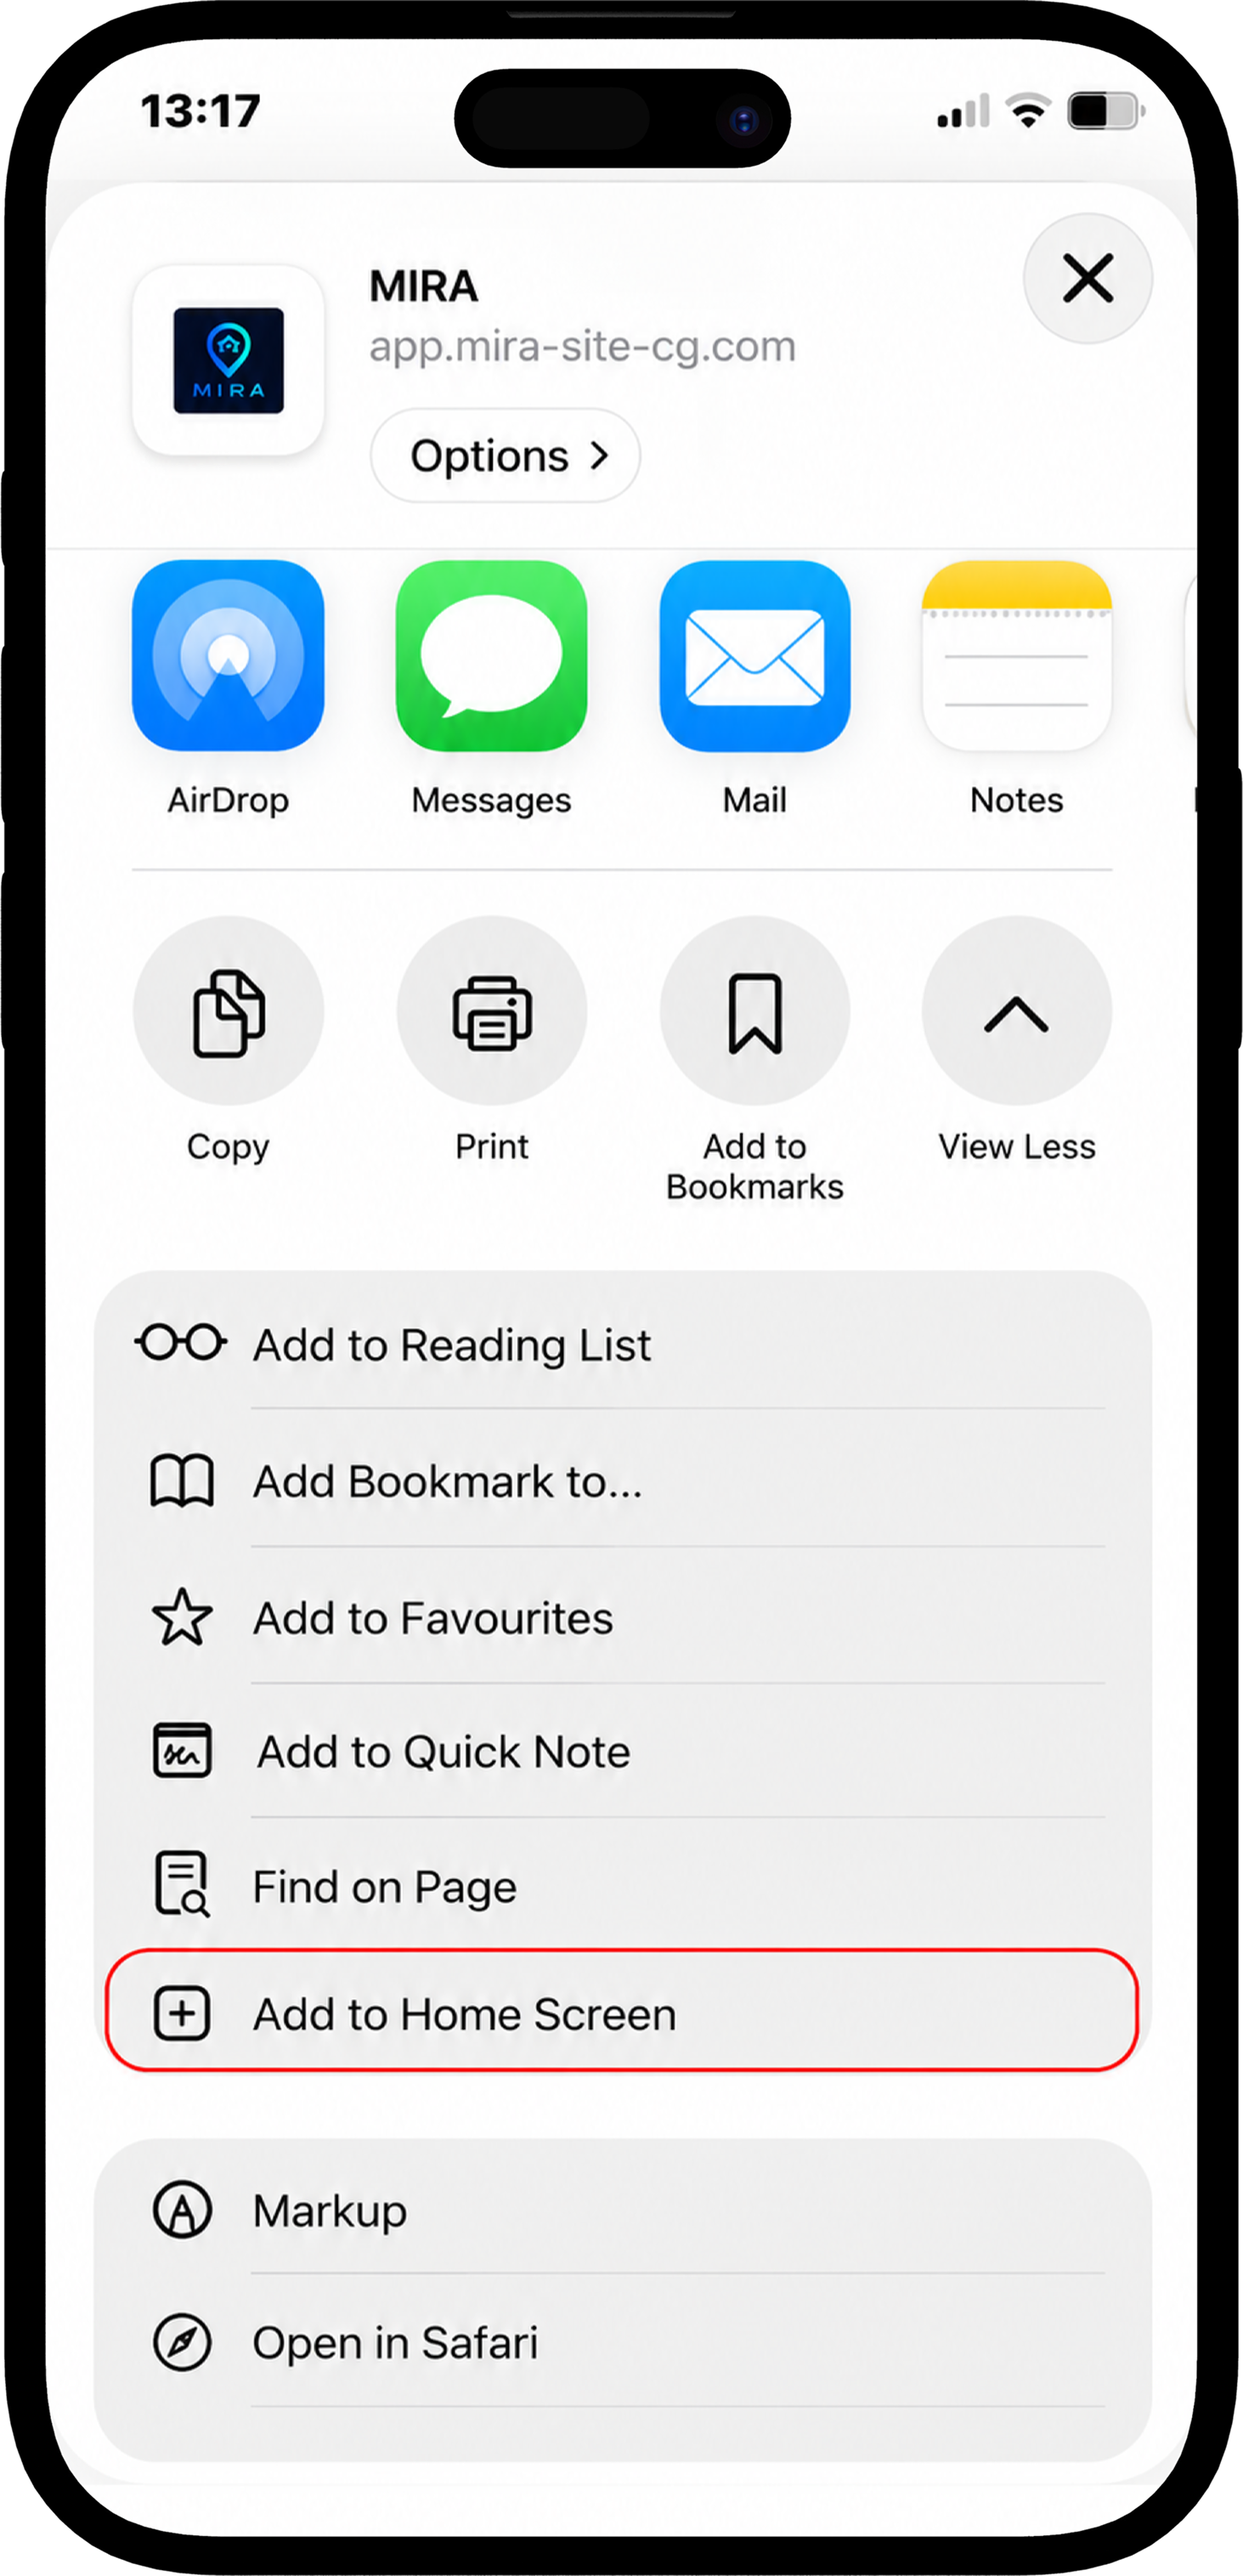
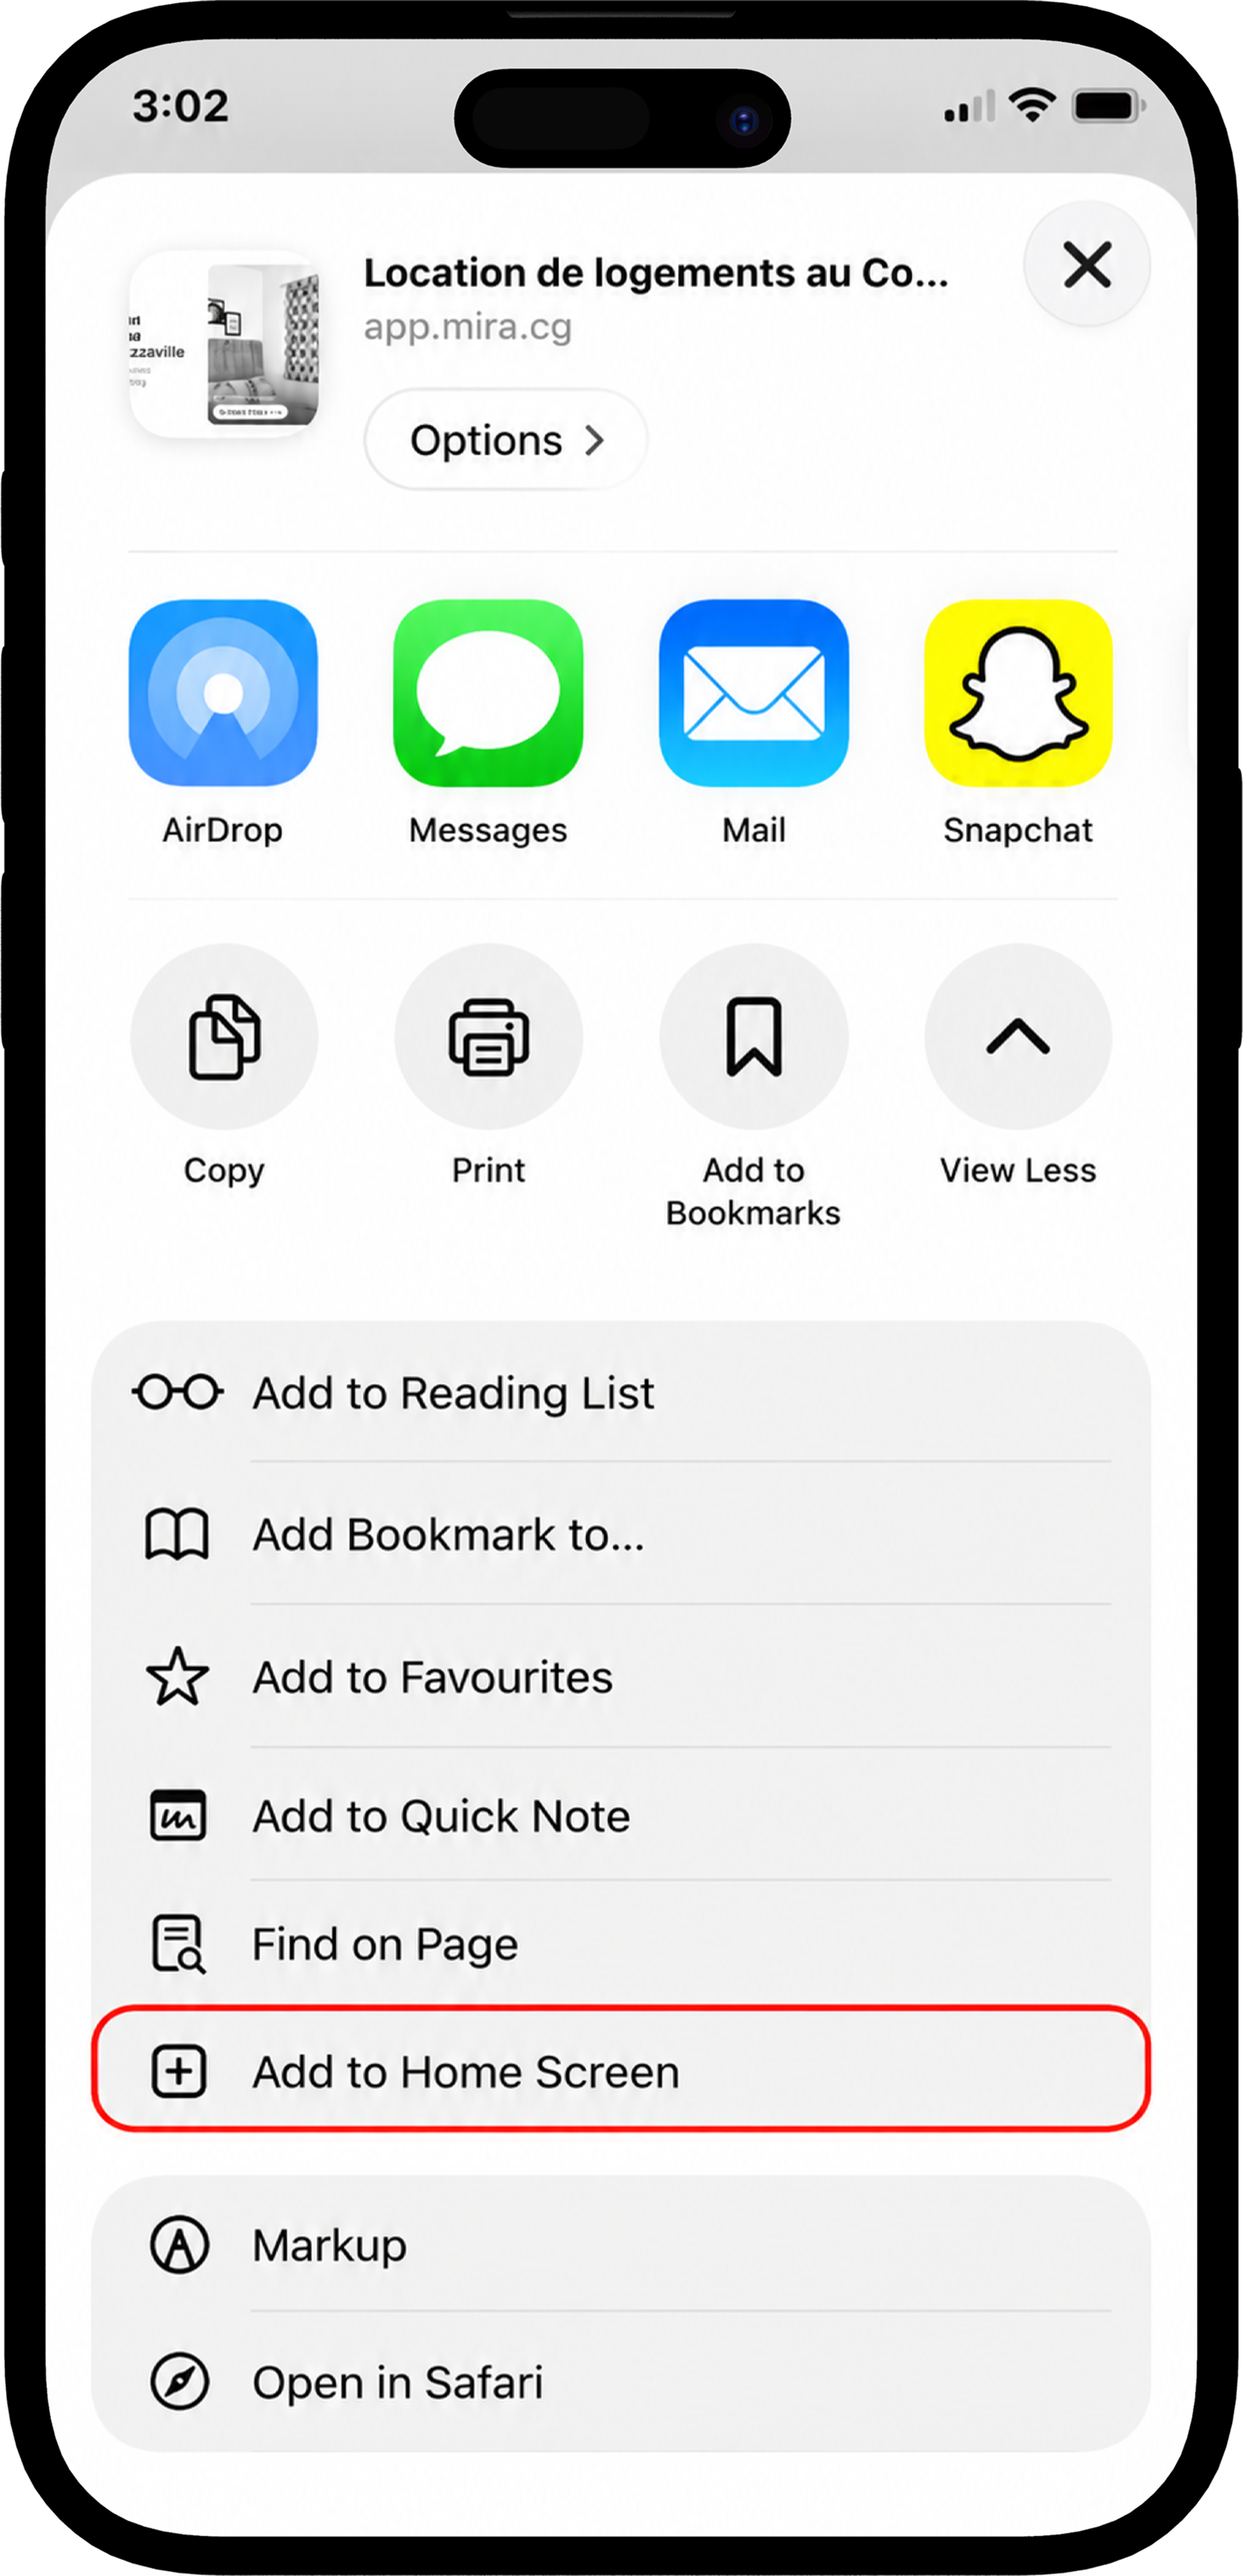
Mise a jour du domaine et des contacts MIRA, ajout des mockups Android a l'installateur

diff --git a/components/install/StepShowcase.tsx b/components/install/StepShowcase.tsx
@@ -8,31 +8,27 @@ type Step = {
   title: string;
   src: string;
   alt: string;
+  width: number;
+  height: number;
 };
 
 type StepShowcaseProps = {
   steps: Step[];
-  withFrame?: boolean;
 };
 
 function PhoneFrame({
   steps,
   active,
-  withFrame = true,
   className = "",
 }: {
   steps: Step[];
   active: number;
-  withFrame?: boolean;
   className?: string;
 }) {
   return (
     <div
-      className={`relative w-full ${
-        withFrame
-          ? "aspect-[1080/2340] overflow-hidden rounded-[2rem] border border-white/10 bg-dark-900 shadow-xl shadow-black/10"
-          : "aspect-[1463/3031]"
-      } ${className}`}
+      className={`relative w-full ${className}`}
+      style={{ aspectRatio: `${steps[0].width} / ${steps[0].height}` }}
     >
       {steps.map((step, index) => (
         <Image
@@ -56,10 +52,7 @@ function PhoneFrame({
 const navButton =
   "flex h-11 w-11 shrink-0 touch-manipulation items-center justify-center rounded-full border border-[#00798f]/40 text-[#00798f] transition-colors duration-200 hover:bg-[#00798f]/10 disabled:opacity-30 disabled:hover:bg-transparent focus-visible:outline-none focus-visible:ring-2 focus-visible:ring-[#00798f]";
 
-export default function StepShowcase({
-  steps,
-  withFrame = true,
-}: StepShowcaseProps) {
+export default function StepShowcase({ steps }: StepShowcaseProps) {
   const [active, setActive] = useState(0);
   const stepRefs = useRef<(HTMLButtonElement | null)[]>([]);
   const scrollerRef = useRef<HTMLDivElement>(null);
@@ -157,12 +150,7 @@ export default function StepShowcase({
           })}
         </div>
 
-        <PhoneFrame
-          steps={steps}
-          active={active}
-          withFrame={withFrame}
-          className="install-phone"
-        />
+        <PhoneFrame steps={steps} active={active} className="install-phone" />
       </div>
 
       {/* Mobile : carrousel avec aperçu de l'étape suivante, compteur, flèches et points */}
@@ -180,11 +168,10 @@ export default function StepShowcase({
               }`}
             >
               <div
-                className={`relative w-full ${
-                  withFrame
-                    ? "aspect-[1080/2340] overflow-hidden rounded-[1.75rem] border border-white/10 bg-dark-900 shadow-xl shadow-black/10"
-                    : "aspect-[1463/3031]"
-                }`}
+                className="relative w-full"
+                style={{
+                  aspectRatio: `${steps[0].width} / ${steps[0].height}`,
+                }}
               >
                 <Image
                   src={step.src}

diff --git a/components/ChatbotWidget.tsx b/components/ChatbotWidget.tsx
@@ -384,8 +384,8 @@ const LOCAL_REPLIES: FaqIntent[] = [
       'assistance',
     ],
     content:
-      "Vous pouvez joindre l'équipe MIRA par e-mail à ngassakialex20@gmail.com ou par téléphone au +242 06 767 66 43. Le centre d'aide et toutes les politiques sont aussi disponibles sur /policies. 📩",
-    href: 'mailto:ngassakialex20@gmail.com',
+      "Vous pouvez joindre l'équipe MIRA par e-mail à contact@mira.cg ou par téléphone au +242 06 767 66 43. Le centre d'aide et toutes les politiques sont aussi disponibles sur /policies. 📩",
+    href: 'mailto:contact@mira.cg',
     linkLabel: 'Nous écrire',
   },
   {
@@ -418,7 +418,7 @@ const LOCAL_REPLIES: FaqIntent[] = [
     ],
     keywords: ['droits', 'rectification', 'opposition', 'suppression'],
     content:
-      "Vous pouvez demander l'accès à vos données, leur rectification, leur suppression, la limitation d'un traitement ou vous y opposer. Écrivez à ngassakialex20@gmail.com : une réponse est généralement apportée sous 30 jours, et une preuve d'identité peut être demandée pour les demandes sensibles. 📩",
+      "Vous pouvez demander l'accès à vos données, leur rectification, leur suppression, la limitation d'un traitement ou vous y opposer. Écrivez à contact@mira.cg : une réponse est généralement apportée sous 30 jours, et une preuve d'identité peut être demandée pour les demandes sensibles. 📩",
     href: '/policies/vos-droits',
     linkLabel: 'Lire vos droits',
   },
@@ -494,8 +494,8 @@ const LOCAL_REPLIES: FaqIntent[] = [
     ],
     keywords: ['partenaire', 'partenariat', 'partenaires', 'agence'],
     content:
-      "Vous êtes une agence, un propriétaire multi-biens ou une entreprise ? Écrivez à ngassakialex20@gmail.com avec l'objet « Partenariat avec MIRA » et décrivez votre projet. 🤝",
-    href: 'mailto:ngassakialex20@gmail.com?subject=Demande%20de%20partenariat%20avec%20MIRA',
+      "Vous êtes une agence, un propriétaire multi-biens ou une entreprise ? Écrivez à contact@mira.cg avec l'objet « Partenariat avec MIRA » et décrivez votre projet. 🤝",
+    href: 'mailto:contact@mira.cg?subject=Demande%20de%20partenariat%20avec%20MIRA',
     linkLabel: 'Nous écrire',
   },
 ]

diff --git a/components/Installer.tsx b/components/Installer.tsx
@@ -11,24 +11,32 @@ type Step = {
   title: string;
   src: string;
   alt: string;
+  width: number;
+  height: number;
 };
 
 const androidSteps: Step[] = [
   {
     title: "Ouvrez MIRA dans Chrome.",
-    src: "/install/android-1.png",
+    src: "/screenshots/step1_android.png",
     alt: "Étape 1 sur Android : MIRA ouverte dans Google Chrome",
+    width: 1522,
+    height: 3208,
   },
   {
     title: "Touchez le menu (⋮).",
-    src: "/install/android-2.png",
+    src: "/screenshots/step2_android.png",
     alt: "Étape 2 sur Android : menu de Google Chrome ouvert",
+    width: 1522,
+    height: 3208,
   },
   {
     title:
       "Choisissez « Installer l’application » (ou « Ajouter à l’écran d’accueil ») puis confirmez.",
-    src: "/install/android-3.png",
+    src: "/screenshots/step3_android.png",
     alt: "Étape 3 sur Android : option Installer l’application dans Chrome",
+    width: 1522,
+    height: 3208,
   },
 ];
 
@@ -37,16 +45,22 @@ const iosSteps: Step[] = [
     title: "Ouvrez MIRA dans Safari.",
     src: "/screenshots/step2.png",
     alt: "Étape 1 sur iPhone : MIRA ouverte dans Safari",
+    width: 1463,
+    height: 3031,
   },
   {
     title: "Touchez le bouton Partager.",
     src: "/screenshots/step1.png",
     alt: "Étape 2 sur iPhone : bouton Partager de Safari",
+    width: 1463,
+    height: 3031,
   },
   {
     title: "Choisissez « Sur l’écran d’accueil » puis « Ajouter ».",
     src: "/screenshots/step3.png",
     alt: "Étape 3 sur iPhone : option Sur l’écran d’accueil dans le menu Partager",
+    width: 1463,
+    height: 3031,
   },
 ];
 
@@ -86,7 +100,7 @@ function AndroidTutorial() {
 function IosTutorial() {
   return (
     <div>
-      <StepShowcase steps={iosSteps} withFrame={false} />
+      <StepShowcase steps={iosSteps} />
       <div className="mt-14 flex flex-col items-center gap-6 text-center">
         <p className="text-pretty text-sm text-dark-400">
           Sur iPhone, l’installation se fait uniquement depuis Safari.

diff --git a/app/api/chat/route.ts b/app/api/chat/route.ts
@@ -41,7 +41,7 @@ Aider les utilisateurs à comprendre MIRA : recherche et réservation de logemen
 
 ## Règles absolues
 1. Réponds uniquement aux questions concernant MIRA et ses services. Si la question est hors sujet, refuse poliment en une phrase et propose de revenir sur MIRA.
-2. Ne réponds qu'à partir des informations officielles ci-dessous. N'invente jamais un prix, un délai, un taux, une règle ou une fonctionnalité. Si l'information n'y figure pas, dis-le clairement et oriente vers le support (ngassakialex20@gmail.com) ou la page de politique concernée.
+2. Ne réponds qu'à partir des informations officielles ci-dessous. N'invente jamais un prix, un délai, un taux, une règle ou une fonctionnalité. Si l'information n'y figure pas, dis-le clairement et oriente vers le support (contact@mira.cg) ou la page de politique concernée.
 3. Les politiques ci-dessous sont la version en vigueur. Elles prévalent sur toute information plus ancienne ou contraire. En particulier, la règle de remboursement actuelle n'est plus « 24 h après paiement » : applique strictement la politique de remboursement fournie.
 4. Ne promets jamais un remboursement, un geste commercial ou une décision de litige au nom de MIRA. Seule l'équipe MIRA décide après examen. Tu peux expliquer la procédure et les délais.
 5. Ne demande jamais de mot de passe, de code de paiement, de numéro Mobile Money complet ni de donnée bancaire. Rappelle que MIRA ne demande jamais ces informations par chat.

diff --git a/components/Footer.tsx b/components/Footer.tsx
@@ -14,7 +14,7 @@ const footerLinks: Record<string, { label: string; href?: string }[]> = {
     { label: "À propos", href: "/a-propos" },
     {
       label: "Devenir partenaire",
-      href: "mailto:ngassakialex20@gmail.com?subject=Demande%20de%20partenariat%20avec%20MIRA",
+      href: "mailto:contact@mira.cg?subject=Demande%20de%20partenariat%20avec%20MIRA",
     },
   ],
   Support: supportLinks,
@@ -69,10 +69,10 @@ export default function Footer() {
               <div className="flex items-center gap-2 text-dark-400 text-xs">
                 <Mail size={12} />
                 <a
-                  href="mailto:ngassakialex20@gmail.com"
+                  href="mailto:contact@mira.cg"
                   className="press inline-block hover:text-[#00E5FF] transition-colors"
                 >
-                  ngassakialex20@gmail.com
+                  contact@mira.cg
                 </a>
               </div>
               <div className="flex items-center gap-2 text-dark-400 text-xs">

diff --git a/lib/config.ts b/lib/config.ts
@@ -1,10 +1,10 @@
 // URL publique de l'application MIRA (PWA), déployée séparément de ce site vitrine.
 // TODO : mettre à jour si le domaine de l'application change.
 export const APP_URL =
-  process.env.NEXT_PUBLIC_APP_URL ?? 'https://app.mira-site-cg.com'
+  process.env.NEXT_PUBLIC_APP_URL ?? 'https://app.mira.cg'
 
 // Le site vitrine et l'application sont servis sur deux origines différentes
-// (mira-site-cg.com et app.mira-site-cg.com). Le site ne peut donc pas
+// (mira.cg et app.mira.cg). Le site ne peut donc pas
 // déclencher l'installation de l'application via beforeinstallprompt.
 export const APP_SHARES_ORIGIN = false
 

diff --git a/app/policies/[slug]/page.tsx b/app/policies/[slug]/page.tsx
@@ -227,7 +227,7 @@ export default async function PolicyPage({ params }: PolicyPageProps) {
               </div>
             </div>
             <a
-              href="mailto:ngassakialex20@gmail.com"
+              href="mailto:contact@mira.cg"
               className="press inline-flex min-h-[44px] shrink-0 items-center justify-center gap-2 rounded-xl border border-white/10 px-5 py-2.5 font-body text-sm font-medium text-white transition-colors duration-200 hover:bg-dark-900"
             >
               Contacter le support

diff --git a/app/a-propos/page.tsx b/app/a-propos/page.tsx
@@ -95,7 +95,7 @@ export default function AboutPage() {
                 <ArrowRight size={16} aria-hidden="true" />
               </a>
               <a
-                href="mailto:ngassakialex20@gmail.com"
+                href="mailto:contact@mira.cg"
                 className="press inline-flex min-h-[48px] items-center justify-center gap-2 rounded-xl border border-white/10 px-6 py-3 text-sm font-medium text-white transition-colors duration-200 hover:bg-dark-900"
               >
                 Nous contacter

diff --git a/app/policies/page.tsx b/app/policies/page.tsx
@@ -101,7 +101,7 @@ export default function PoliciesPage() {
           </div>
         </div>
         <a
-          href="mailto:ngassakialex20@gmail.com"
+          href="mailto:contact@mira.cg"
           className="press inline-flex min-h-[44px] shrink-0 items-center justify-center gap-2 rounded-xl bg-gradient-to-r from-[#2233DD] to-[#1A6BFF] px-5 py-2.5 text-sm font-medium text-white transition-[transform,box-shadow] duration-300 hover:-translate-y-0.5 hover:shadow-glow"
         >
           Nous contacter

diff --git a/lib/chatbot/policyContext.ts b/lib/chatbot/policyContext.ts
@@ -45,7 +45,7 @@ const POLICY_DIGEST = `### Réservation et paiement
 - En cas d'incident de sécurité : mesures correctives, information des utilisateurs concernés si nécessaire.
 
 ### Contact
-- E-mail : ngassakialex20@gmail.com — Téléphone : +242 06 767 66 43 — Centre d'aide : /policies.`;
+- E-mail : contact@mira.cg — Téléphone : +242 06 767 66 43 — Centre d'aide : /policies.`;
 
 /**
  * Contexte injecté dans le prompt : synthèse + documents complets pertinents.

diff --git a/lib/navigation.ts b/lib/navigation.ts
@@ -9,7 +9,7 @@ export type SupportLink = {
  */
 export const supportLinks: SupportLink[] = [
   { label: "Centre d'aide", href: "/policies" },
-  { label: "Nous contacter", href: "mailto:ngassakialex20@gmail.com" },
+  { label: "Nous contacter", href: "mailto:contact@mira.cg" },
   {
     label: "Politique de confidentialité",
     href: "/policies/confidentialite",
